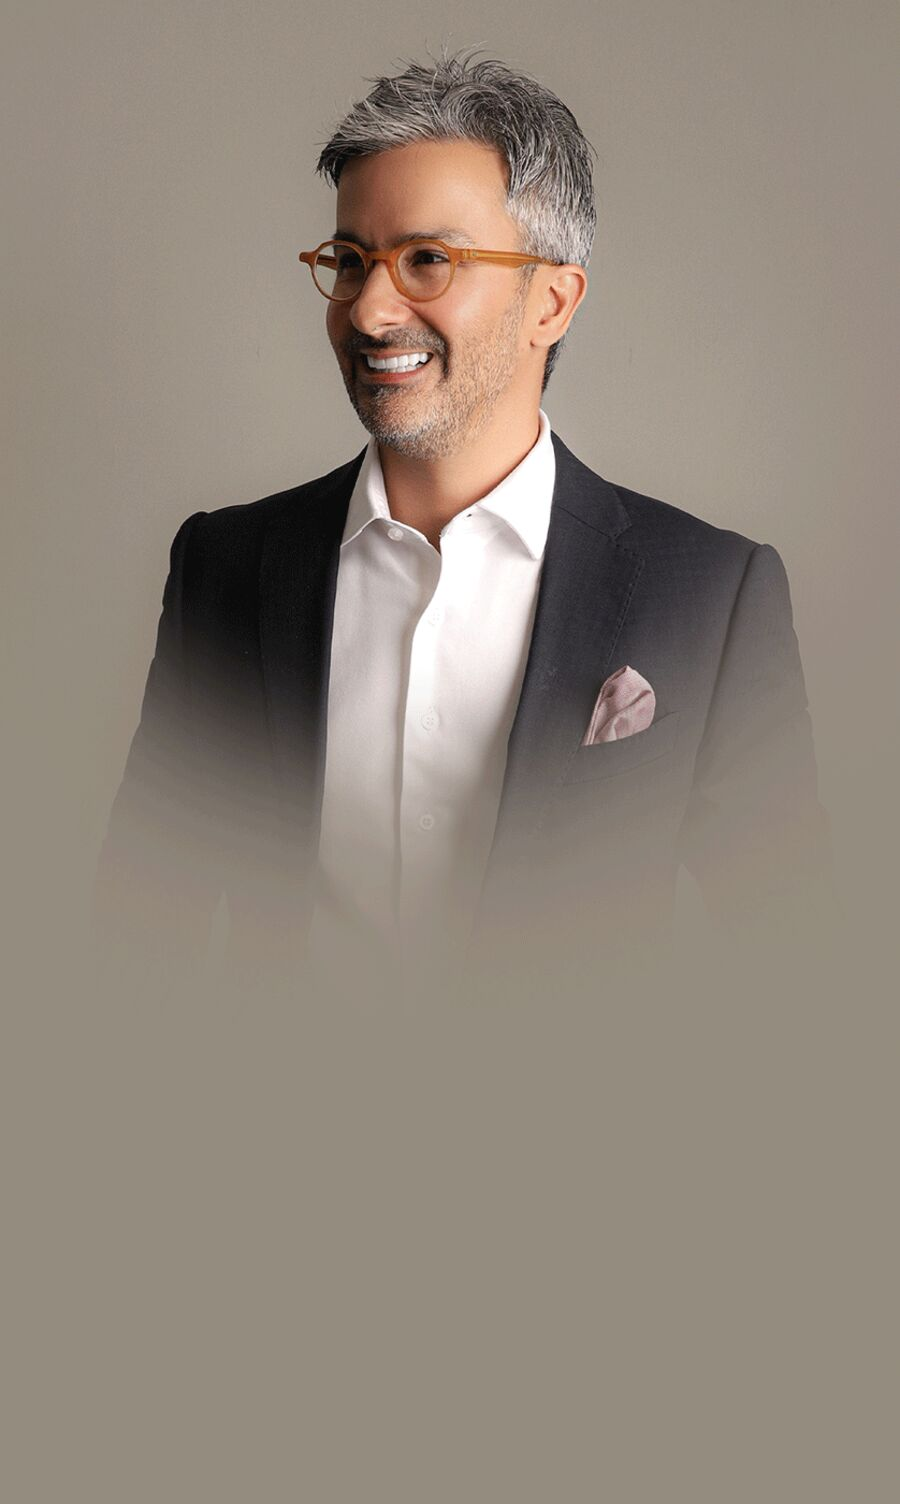
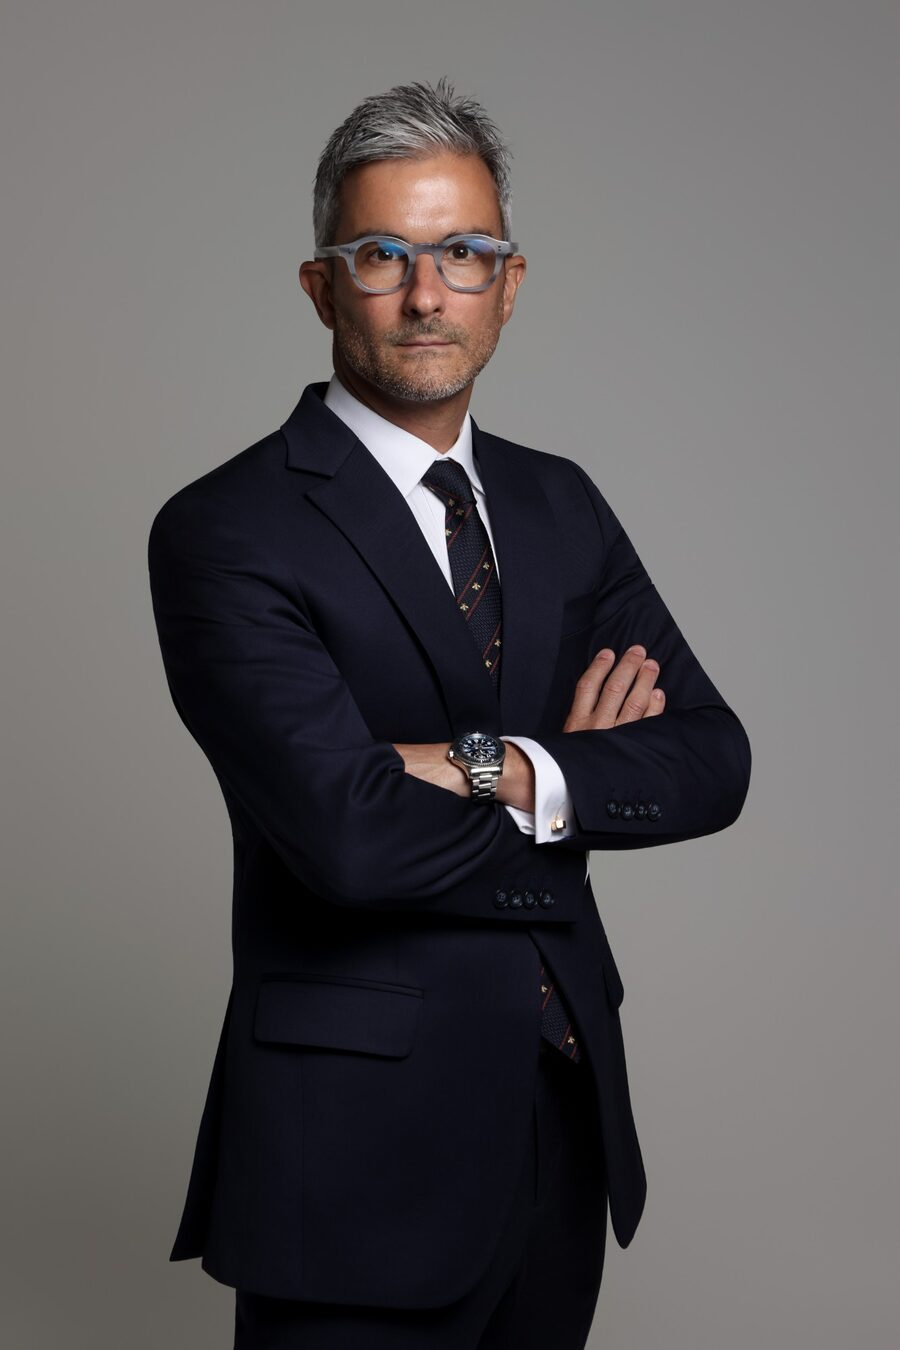
Troca a foto do Dr. Vinícius pelo retrato colorido de terno
Claude-Session: https://claude.ai/code/session_01DkE556CfkWHCyQcut82HD3

diff --git a/assets/css/style.css b/assets/css/style.css
@@ -191,7 +191,7 @@ p { margin: 0 0 1em; }
 
 /* Quem é o médico + clínica */
 .split--doctor { grid-template-columns: 5fr 7fr; }
-.split--doctor .split__media img { aspect-ratio: 4 / 5; object-position: center 15%; }
+.split--doctor .split__media img { aspect-ratio: 4 / 5; object-position: center 10%; }
 .doctor__reg { font-family: var(--font-head); font-weight: 500; font-size: 14px; letter-spacing: .04em; color: var(--gold-deep); margin-top: -6px; }
 .gallery { display: grid; grid-template-columns: 1fr 1fr 1fr; gap: 16px; margin-top: 56px; }
 .gallery img { width: 100%; aspect-ratio: 4 / 3; object-fit: cover; border-radius: var(--radius); }

diff --git a/index.html b/index.html
@@ -256,7 +256,7 @@
     <section class="section" id="dr-vinicius">
       <div class="container split split--doctor">
         <div class="split__media">
-          <img src="assets/img/dr-vinicius.jpg" alt="Dr. Vinícius Mello, cirurgião plástico" loading="lazy" width="900" height="1504">
+          <img src="assets/img/dr-vinicius.jpg" alt="Dr. Vinícius Mello, cirurgião plástico" loading="lazy" width="900" height="1350">
         </div>
         <div class="split__text">
           <span class="eyebrow">Quem vai cuidar de você</span>
